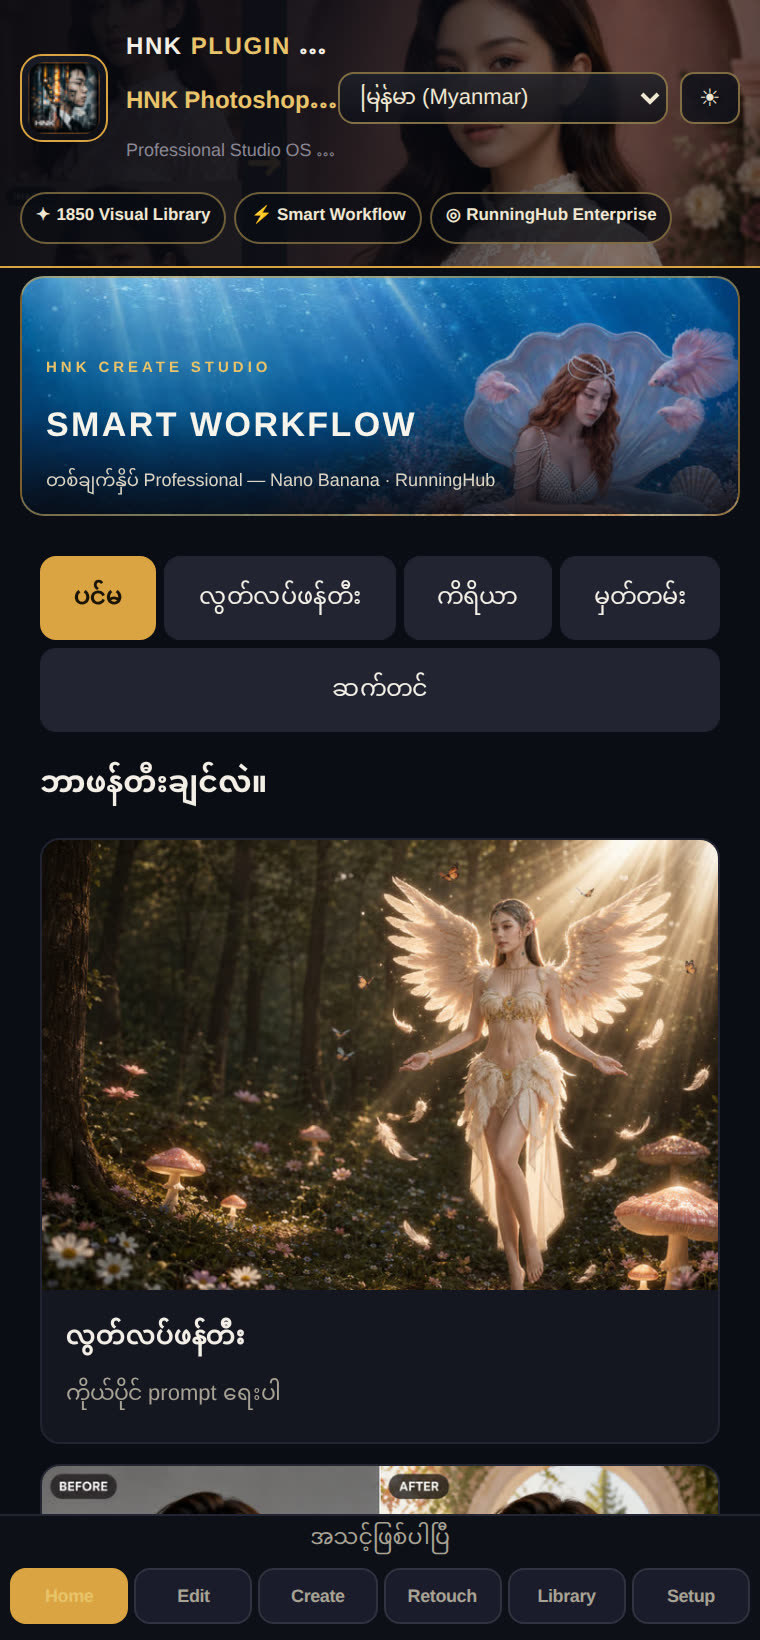
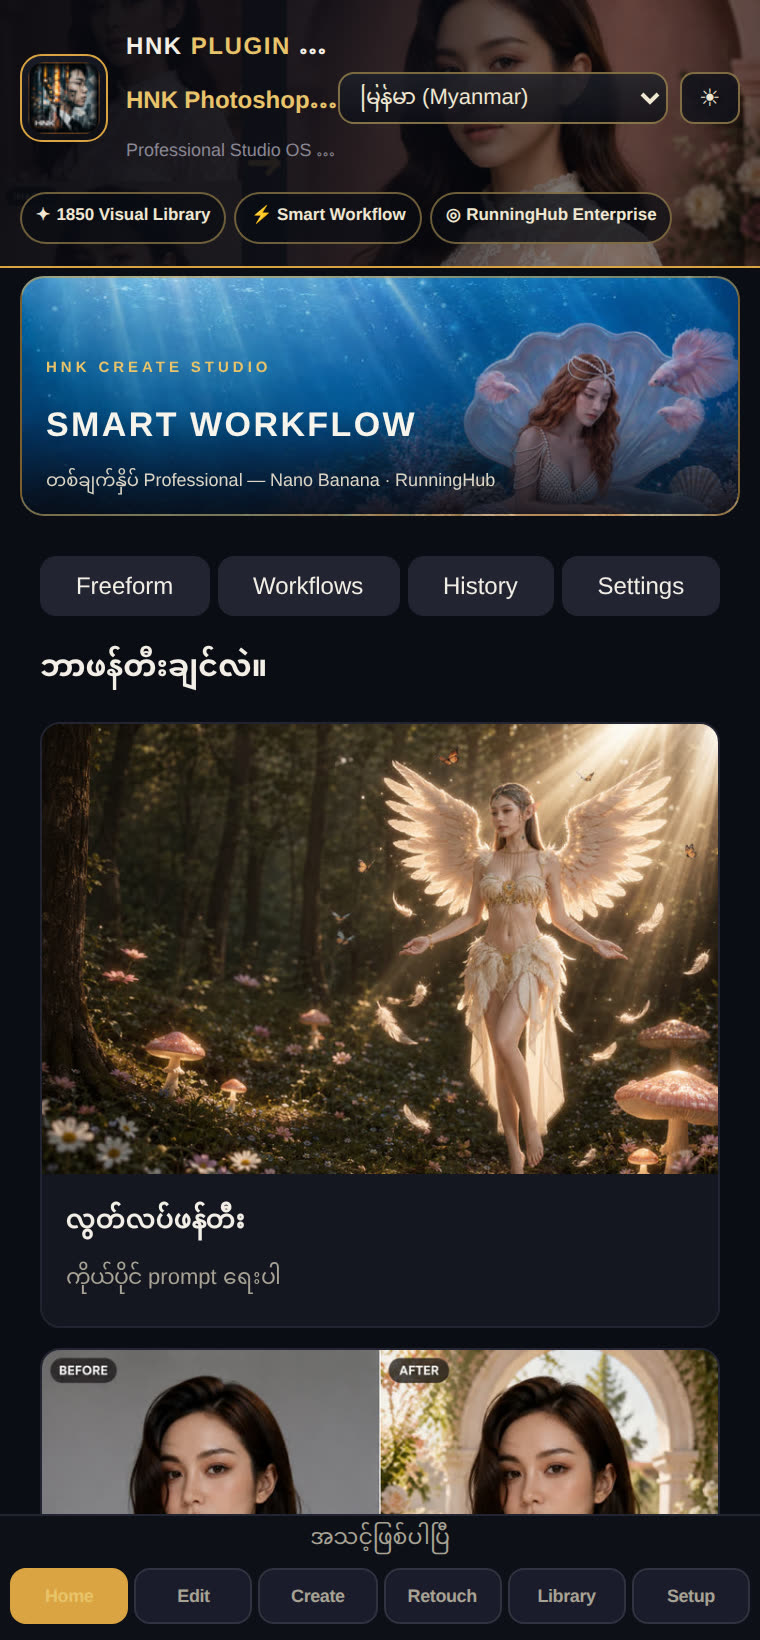
Home page reads as ONE navigation: web-app section pills, no stacked langs
Owner report from the live screenshot: the Home page showed a localized
pill row (ပင်မ · လွတ်လပ်ဖန်တီး · ကိရိယာ · မှတ်တမ်း · ဆက်တင်) wrapping to
two lines directly above the English bottom tab bar — two stacked
navigations in two languages saying nothing together.

The web app's pattern, applied: in-page section pills are short ENGLISH
words in every locale (its Edit page shows Freeform · Studio · Retouch ·
Path), and none repeats a bottom tab. So the AI Tools stack's pills
become Freeform · Workflows · History · Settings — one row, one language
— and the "Home" pill is gone: the bottom Home tab now returns to the
cards home from any sub-screen, exactly like the web app's Home.

Shim audit passes complete, including the new pill-row assertion and the
Home-tab-returns-home walk. CCX rebuilt (still the unpublished 6.27.0):
SHA-256 6d14f229…, 1,425,197 bytes in release-manifest and the ledger;
the landing panel screenshot re-captured from this build.

diff --git a/panel/src/ui/app-controller.js b/panel/src/ui/app-controller.js
@@ -35,13 +35,19 @@ function create(deps) {
   var current = "home";
   var free = null, workflow = null;
 
+  /* v6.27.0 — web-app parity (owner report: the localized pill row over the
+     English tab bar read as two stacked navigations saying nothing). The web
+     app's in-page section pills are short ENGLISH words in every locale
+     (Freeform · Studio · Retouch · Path), and none of them repeats a bottom
+     tab: so these pills drop the "Home" duplicate (the bottom Home tab now
+     returns to the cards home from anywhere) and take fixed web-app words —
+     Freeform · Workflows · History · Settings — one row, one language. */
   function navContainer(activeScreen) {
     var nav = dom.el(doc, "div", { class: "hnk-nav", id: "hnkNav" });
-    [["home", "ai_nav_home", "Home"], ["free-generate", "ai_free_generate", "Free Generate"],
-     ["workflow-tools", "ai_nav_tools", "Tools"], ["history", "ai_history", "History"],
-     ["settings", "ai_settings", "Settings"]].forEach(function (pair) {
+    [["free-generate", "Freeform"], ["workflow-tools", "Workflows"],
+     ["history", "History"], ["settings", "Settings"]].forEach(function (pair) {
       var isActive = pair[0] === activeScreen;
-      var b = dom.el(doc, "button", { class: "hnk-nav-btn" + (isActive ? " active" : ""), id: "hnkNav_" + pair[0], text: dom.t(pair[1], pair[2]) });
+      var b = dom.el(doc, "button", { class: "hnk-nav-btn" + (isActive ? " active" : ""), id: "hnkNav_" + pair[0], text: pair[1] });
       if (isActive) b.setAttribute("aria-current", "page");
       dom.on(b, "click", function () { navigate(pair[0]); });
       nav.appendChild(b);

diff --git a/panel/main.js b/panel/main.js
@@ -10897,6 +10897,14 @@ function switchPage(key) {
   if (pg) pg.scrollTop = 0;
   if (key === "prompt") { try { fitCompareBox(); } catch (e) { } }
   if (key === "create") { try { refreshCreateCompare(); } catch (e) { } }
+  /* v6.27.0 — the bottom Home tab always returns to the cards home, like
+     the web app; the AI Tools stack's own "Home" pill left with this. */
+  if (key === "aitools") {
+    try {
+      const aiApp = (typeof globalThis !== "undefined" && globalThis.HNK) ? globalThis.HNK.aiToolsApp : null;
+      if (aiApp && aiApp.current && aiApp.current() !== "home") aiApp.navigate("home");
+    } catch (e) { }
+  }
   if (key === "presets") { try { renderLightStage(); } catch (e) { } }
   if (key === "setup") {
     try {

diff --git a/PANEL_RELEASE_SECURITY.md b/PANEL_RELEASE_SECURITY.md
@@ -215,6 +215,6 @@ eligible students.
   WITH card art visible, an AI Tools generate, a library preset tap
   landing in Reference 2, and a Text / Logo generate.
   Artifact `HNK_Ai_Panel_v6.27.0.ccx`, SHA-256
[1 lines of base64/hex data omitted]
-  1,424,806 bytes (the bundled card art accounts for the growth over
[1 lines of base64/hex data omitted]
+  1,425,197 bytes (the bundled card art accounts for the growth over
   6.26.2's 524,577). The release stays disabled until that acceptance.
